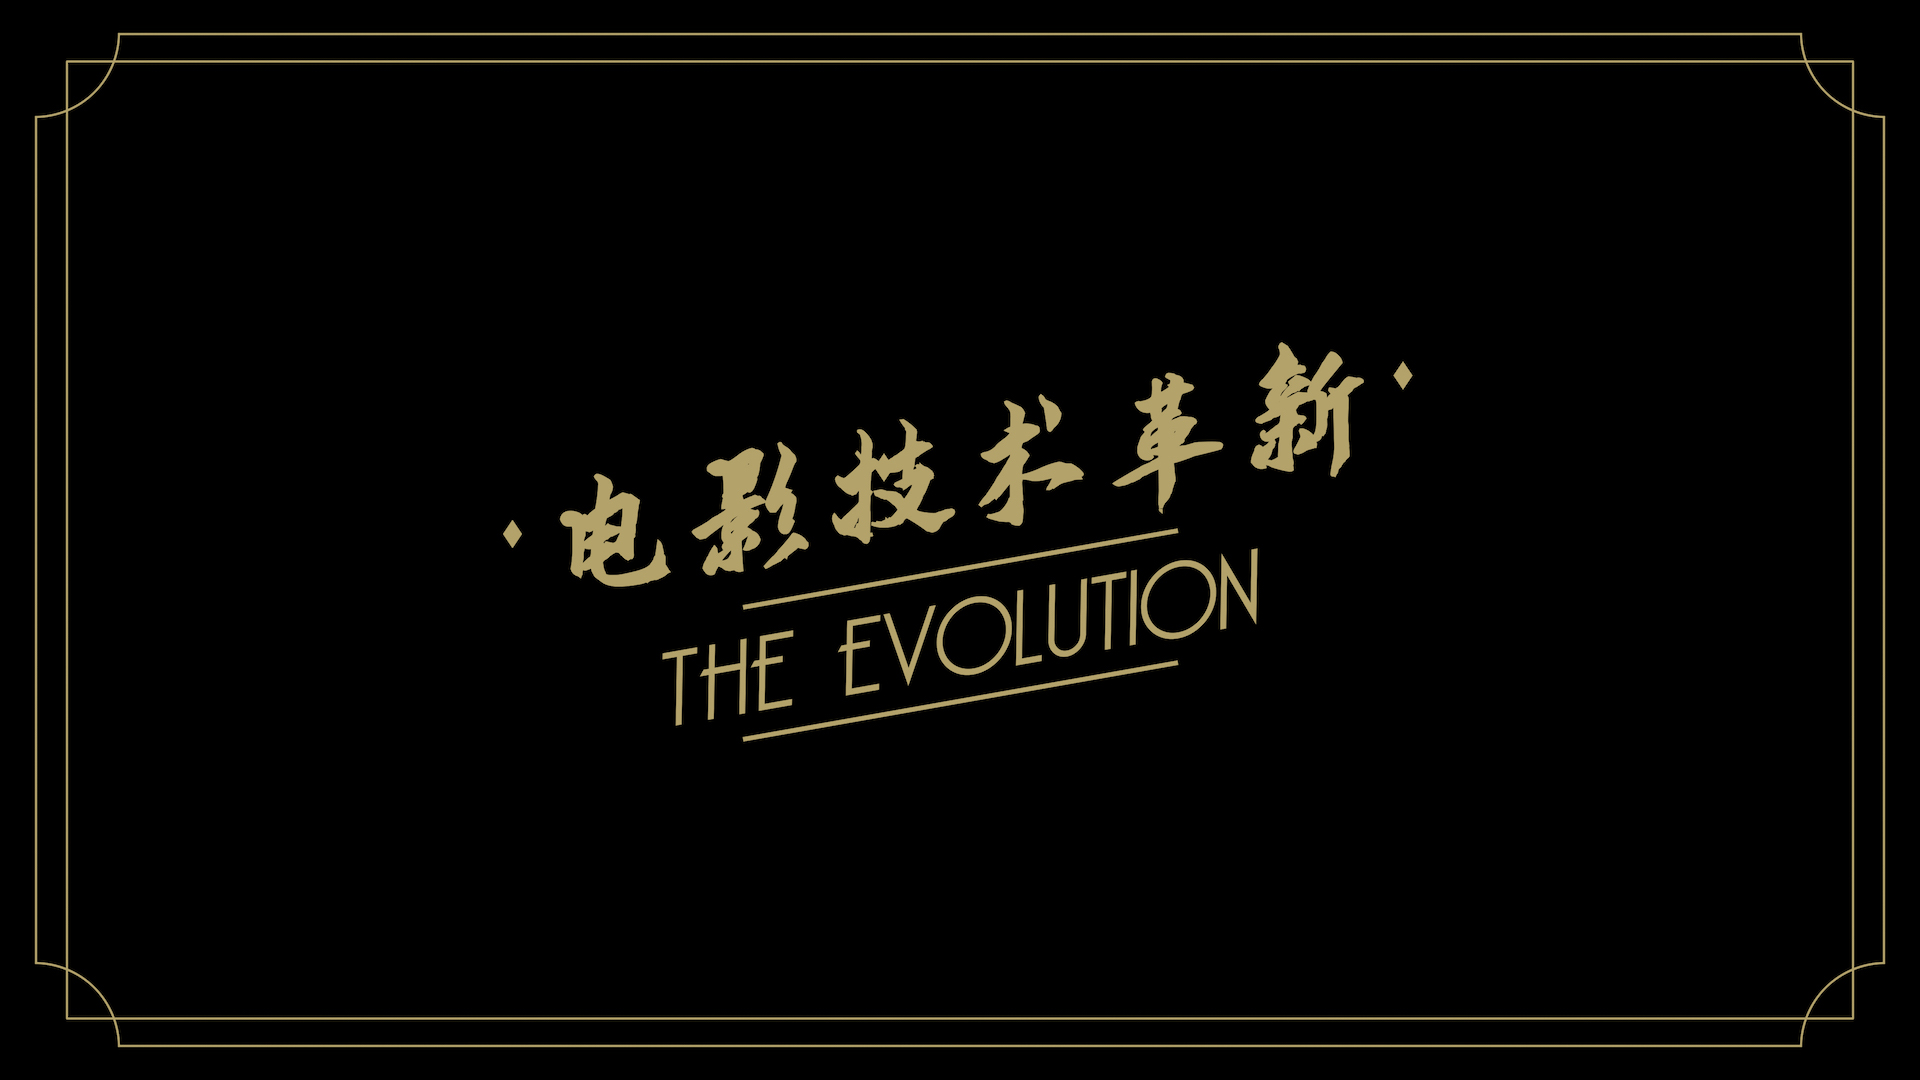
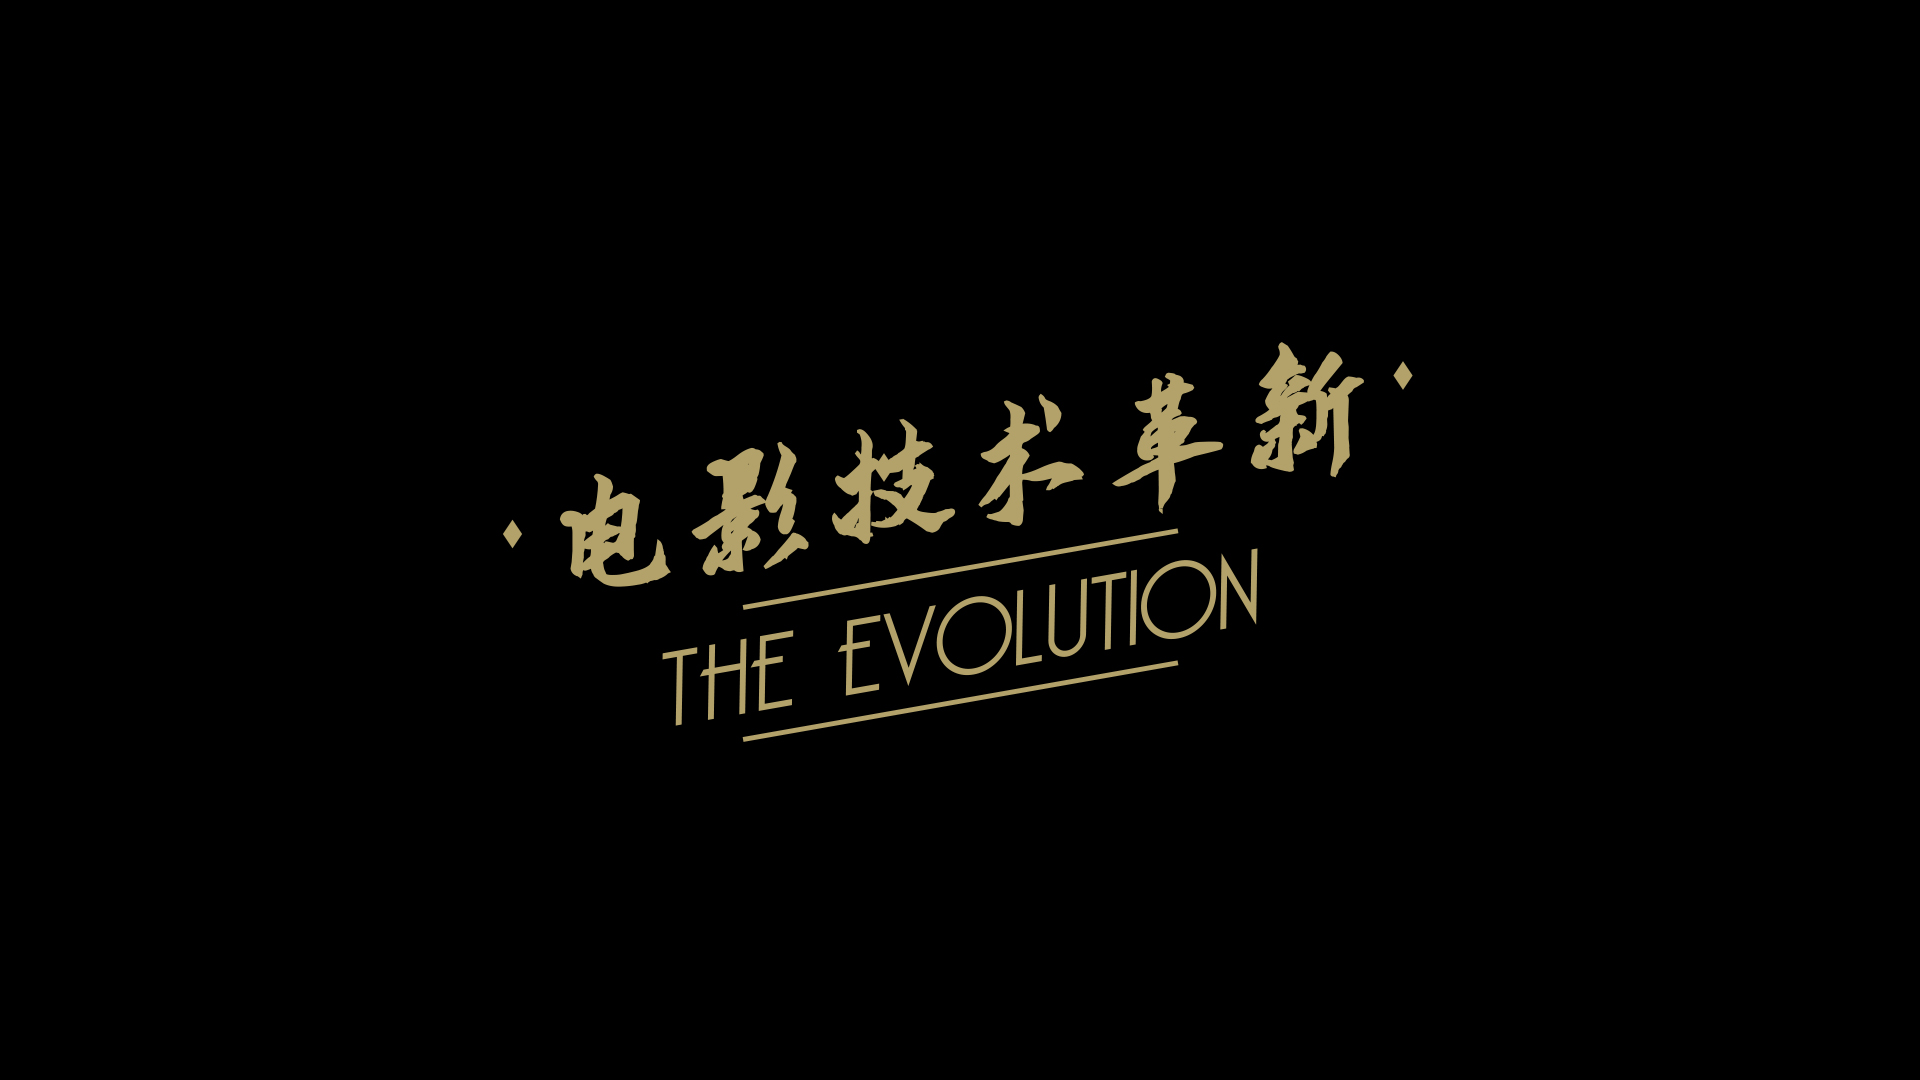
增加数字化前半部分的页面

diff --git a/src/App.vue b/src/App.vue
@@ -1,14 +1,18 @@
 <template>
   <div class="main-container" ref="main">
-    <ProgressIndicator id="wheel" :class="{ hidden: scrolled < 1 }" :current="scrolled - 1"></ProgressIndicator>
+    <ProgressIndicator
+      id="wheel"
+      :class="{ hidden: scrolled < 1 || scrolled > 7 }"
+      :current="scrolled - 1"
+    ></ProgressIndicator>
     <div class="bg-container">
       <img src="@img/bg.jpg" alt="" class="bg" />
       <img src="@img/bg.jpg" alt="" class="bg" />
     </div>
-    <div class="blackbg" :class="{ show: scrolled >= 6.9 }"></div>
+    <div class="blackbg" :class="{ show: scrolled >= 7 }"></div>
     <div class="screen" id="s0">
-      <video src="@video/1.mp4" autoplay muted playsinline></video>
-      <h1>电影技术革新</h1>
+      <video src="@video/1.mp4" autoplay muted playsinline @pause="videoPlaying = false"></video>
+      <img src="@img/title.jpg" alt="" v-if="!videoPlaying" />
     </div>
     <div class="screen" id="s1" ref="screen" @resize="handleResize">
       <div class="left hidable" :class="{ hidden: showDetail[0] }">
@@ -38,8 +42,11 @@
           showDetail[0] ? "返回视频" : "查看更多"
         }}</ClassicButton>
       </div>
+      <div class="transition" style="bottom: 0; right: 60px">
+        <img src="@img/projector1.png" alt="" id="proj1" />
+      </div>
     </div>
-    <div class="screen" id="s2">
+    <div class="screen" id="s2" style="overflow-x: hidden">
       <div class="left">
         <h2 class="gray">无声电影</h2>
         <p>
@@ -68,9 +75,6 @@
             dolores doloremque asperiores!
           </span>
         </div>
-      </div>
-      <div class="transition" style="right: 60px">
-        <img src="@img/projector1.png" alt="" id="proj1" />
       </div>
     </div>
     <div class="screen" id="s3">
@@ -104,7 +108,7 @@
           showDetail[2] ? "返回视频" : "查看更多"
         }}</ClassicButton>
       </div>
-      <div class="transition" style="left: 50px">
+      <div class="transition" style="top: 0; left: 50px">
         <img src="@img/projector2.png" alt="" id="proj2" />
       </div>
     </div>
@@ -131,15 +135,43 @@
       <div class="right"></div>
     </div>
     <!-- “数字化”部分 -->
-    <div class="screen modern" id="s7">
+    <div class="screen modern" id="s7" :style="{ position: scrolled >= 8 ? 'relative' : 'sticky' }">
       <div>
-        <h3>第三次变革</h3>
+        <h3 :style="{ color: scrolled >= 7 ? 'var(--lightText)' : 'var(--darkText)' }">第三次变革</h3>
         <h2>数字化</h2>
       </div>
     </div>
-    <div class="screen" id="s8">
-      <div class="left"></div>
-      <div class="right"></div>
+    <div class="screen modern" id="s8">
+      <div class="left compact">
+        <img src="@img/computer.png" alt="" />
+        <div class="content">这里可以加内容</div>
+      </div>
+      <div class="right compact">
+        <input type="radio" name="digitech" id="projection" value="0" v-model="showDetail[4]" checked />
+        <label for="projection">数字放映技术</label>
+        <p v-if="showDetail[4] == 0">
+          Lorem ipsum dolor sit amet consectetur adipisicing elit. Vitae animi voluptatem voluptate inventore quod harum
+          voluptatibus enim illo, saepe quaerat perferendis quas beatae delectus corporis in quae. Culpa, voluptatum
+          ipsum.
+        </p>
+        <input type="radio" name="digitech" id="cg" value="1" v-model="showDetail[4]" />
+        <label for="cg">计算机图形</label>
+        <p v-if="showDetail[4] == 1">
+          Lorem ipsum dolor sit amet consectetur adipisicing elit. Vitae animi voluptatem voluptate inventore quod harum
+          voluptatibus enim illo, saepe quaerat perferendis quas beatae delectus corporis in quae. Culpa, voluptatum
+          ipsum.
+        </p>
+        <input type="radio" name="digitech" id="processing" value="2" v-model="showDetail[4]" />
+        <label for="processing">数字图像处理</label>
+        <p v-if="showDetail[4] == 2">
+          Lorem ipsum dolor sit amet consectetur adipisicing elit. Vitae animi voluptatem voluptate inventore quod harum
+          voluptatibus enim illo, saepe quaerat perferendis quas beatae delectus corporis in quae. Culpa, voluptatum
+          ipsum.
+        </p>
+      </div>
+    </div>
+    <div class="screen modern" id="s9">
+      <h2>What's Next?</h2>
     </div>
   </div>
 </template>
@@ -162,7 +194,7 @@ export default {
       scrollLock: false,
       videoPlaying: true,
       screenHeight: 1000,
-      showDetail: [false, false, false, false],
+      showDetail: [false, false, false, false, 0],
       swiperIndex: [0, 0, 0, 0],
       showGame: [false, false],
     };
@@ -184,10 +216,6 @@ export default {
   methods: {
     handleResize() {
       this.screenHeight = this.$refs.screen.getBoundingClientRect().height;
-    },
-    handleVideoPause() {
-      //视频播放结束
-      this.videoPlaying = false;
     },
     handleSlideChange(e) {
       console.log(e);
@@ -216,7 +244,6 @@ export default {
   width: 100%;
   min-height: 100vh;
   position: relative;
-  overflow-x: hidden;
   color: var(--darkText);
 }
 
@@ -254,7 +281,7 @@ export default {
     position: fixed;
     top: 0;
     left: 0;
-    width: 100vw;
+    width: 100%;
     height: 100vh;
     z-index: 0;
     transition: background-color linear 1s;
@@ -289,6 +316,7 @@ export default {
     align-items: stretch;
     justify-content: space-between;
     padding: 0 60px;
+    font-family: AaMSXK;
 
     .left {
       padding-left: 60px;
@@ -362,7 +390,7 @@ export default {
     }
 
     p {
-      font-family: AaMSXK;
+      font-family: inherit;
       font-size: 32px;
       line-height: 42px;
       text-align: left;
@@ -386,7 +414,6 @@ export default {
 
     .transition {
       position: absolute;
-      top: 0;
       z-index: 0;
       img {
         transform: translateY(-50%);
@@ -394,7 +421,7 @@ export default {
 
       #proj1 {
         width: 9vw;
-        transform: translateY(-70%) rotate(10deg);
+        transform: translateY(30%) rotate(10deg);
       }
 
       #proj2 {
@@ -406,6 +433,9 @@ export default {
     &.modern {
       font-family: PangMenZhengDao;
       color: var(--lightText);
+      h2 {
+        font-family: inherit;
+      }
     }
 
     &#s0,
@@ -419,6 +449,7 @@ export default {
       height: 100vh;
       max-height: unset;
       background-color: var(--darkBG);
+      overflow: hidden;
       video {
         position: absolute;
         top: 0;
@@ -435,13 +466,80 @@ export default {
     }
 
     &#s7 {
+      position: sticky;
+      top: 0;
       h2 {
-        font-family: inherit;
         font-size: 150px;
         line-height: 150px;
       }
       h3 {
-        color: inherit;
+        transition: color linear 0.5s;
+      }
+    }
+
+    &#s8 {
+      padding: 0;
+      .left {
+        position: relative;
+        width: 126.27vh;
+        max-width: unset;
+        img {
+          position: absolute;
+          right: 0;
+          bottom: 0;
+          height: 90%;
+        }
+        .content {
+          position: absolute;
+          right: 0.9%;
+          top: 11.5%;
+          width: 86.5%;
+          height: 66.8%;
+          background-color: var(--darkBG);
+        }
+      }
+      .right {
+        flex: 1;
+        padding: 0 60px;
+        align-items: center;
+
+        p {
+          margin-top: 20px;
+          font-size: 24px;
+          line-height: 33px;
+        }
+      }
+
+      input[type="radio"] {
+        display: none;
+      }
+
+      label {
+        display: block;
+        width: 250px;
+        height: 70px;
+        background: var(--darkGray);
+        border-radius: 35px;
+        font-size: 30px;
+        line-height: 70px;
+        white-space: nowrap;
+        margin-top: 20px;
+        cursor: pointer;
+      }
+
+      input[type="radio"]:checked + label {
+        background: var(--mediumGray);
+        color: var(--theme);
+      }
+    }
+
+    &#s9 {
+      align-items: center;
+      justify-content: center;
+      h2 {
+        font-size: 80px;
+        line-height: 100px;
+        color: var(--lightText);
       }
     }
   }

diff --git a/src/assets/css/theme.css b/src/assets/css/theme.css
@@ -4,6 +4,6 @@
   --lightText: #f5f5f5;
   --lightGray: #707070;
   --mediumGray: #3e3e3e;
-  --darkGray: #1C1C1C;
+  --darkGray: #1c1c1c;
   --darkBG: #0f0f0f;
 }
